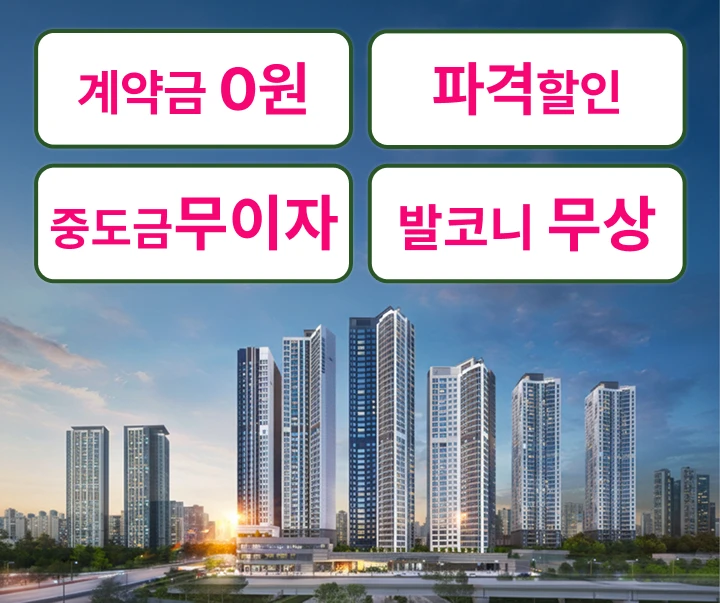
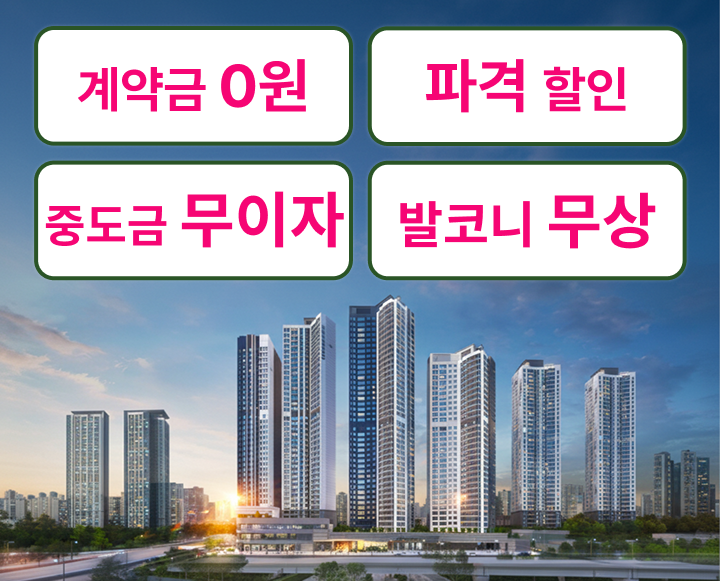
feat: 숭의역2 팝업 사은품 이미지 교체 및 헤더 로고 이미지 적용
- popup2.webp 최신 사은품 이미지로 교체, 실제 치수(720x581)로 맞춤
- 팝업 헤더의 방패 아이콘 + RAON PRIVATE 텍스트를 logo-w.webp 이미지로 교체

diff --git a/mobile-scroll/components/sungui-raon-private-2/SunguiRaonPrivate2ReservationPopup.jsx b/mobile-scroll/components/sungui-raon-private-2/SunguiRaonPrivate2ReservationPopup.jsx
@@ -26,7 +26,7 @@ function hideUntilTomorrow(id) {
 // 방문예약 사은품 증정 팝업 — 이미지 배너 + 대상 안내 + 이름/연락처 미니 폼을 한 번에 보여주고,
 // 제출 시 하단 상담신청 폼과 동일하게 /api/sms로 발송한다(솔라피 SMS/구글시트/카카오 연동 공유).
 export default function SunguiRaonPrivate2ReservationPopup({
-  id, image, title, targetText, targetHighlight,
+  id, image, logo, title, targetText, targetHighlight,
   projectName, adminPhones, sheetId, sheetTab, slug, privacyText,
 }) {
   const [open, setOpen] = useState(false);
@@ -102,12 +102,11 @@ export default function SunguiRaonPrivate2ReservationPopup({
     <div className="rsv-popup-overlay" onClick={handleClose}>
       <div className="rsv-popup-card" onClick={(e) => e.stopPropagation()}>
         <div className="rsv-popup-header">
-          <div className="rsv-popup-brand">
-            <span className="rsv-popup-shield" aria-hidden="true">
-              <svg viewBox="0 0 24 24" fill="none" stroke="currentColor" strokeWidth="1.6"><path d="M12 2l8 3v6c0 5-3.5 8.5-8 11-4.5-2.5-8-6-8-11V5l8-3z" /></svg>
-            </span>
-            <span className="rsv-popup-brand-word">RAON PRIVATE</span>
-          </div>
+          {logo && (
+            <div className="rsv-popup-brand">
+              <img src={logo.src} alt={logo.alt ?? ""} width={logo.width} height={logo.height} className="rsv-popup-logo" />
+            </div>
+          )}
           <h3 className="rsv-popup-title">{title}</h3>
         </div>
 

diff --git a/mobile-scroll/components/sungui-raon-private-2/landingCss.js b/mobile-scroll/components/sungui-raon-private-2/landingCss.js
@@ -413,11 +413,9 @@ html:has(.sr2) {
   padding: 12px 24px 10px; text-align: center; color: #fff;
 }
 .sr2 .rsv-popup-brand {
-  display: flex; align-items: center; justify-content: center; gap: 6px; margin-bottom: 4px; opacity: .85;
+  display: flex; align-items: center; justify-content: center; margin-bottom: 4px;
 }
-.sr2 .rsv-popup-shield { width: 14px; height: 14px; color: var(--btn-color); }
-.sr2 .rsv-popup-shield svg { width: 100%; height: 100%; }
-.sr2 .rsv-popup-brand-word { font-size: 10px; letter-spacing: 2px; font-weight: 600; }
+.sr2 .rsv-popup-logo { display: block; height: 16px; width: auto; }
 .sr2 .rsv-popup-title { margin: 0; font-size: 21px; font-weight: 800; letter-spacing: -0.02em; }
 /* 이미지를 자르지 않고 원본 비율 그대로 카드 폭에 맞춰 전체가 보이게 표시 */
 .sr2 .rsv-popup-image-wrap { line-height: 0; background: #0f1c2e; }

diff --git a/mobile-scroll/data/sites/sungui-raon-private-2.js b/mobile-scroll/data/sites/sungui-raon-private-2.js
@@ -59,16 +59,21 @@ const config = {
     { label: "44OA", src: "/apt/sungui-raon-private-2/3-4.webp", alt: "44OA 평면도", width: 877, height: 1536 },
   ],
 
-  // 방문예약 사은품 증정 팝업 — image는 임시 자리표시자, 실제 사은품 이미지로 교체 예정
+  // 방문예약 사은품 증정 팝업
   popup: {
     id: "sr2-popup1",
     title: "방문예약 사은품 증정",
     targetText: "방문예약 등록 후, 모델하우스 관람고객",
     targetHighlight: "(담당자 지명 필수)",
+    logo: {
+      src: "/apt/sungui-raon-private-2/logo-w.webp",
+      alt: "숭의역 라온프라이빗 스카이브",
+      width: 279, height: 69,
+    },
     image: {
       src: "/apt/sungui-raon-private-2/popup2.webp",
       alt: "방문예약 사은품 이미지",
-      width: 971, height: 822,
+      width: 720, height: 581,
     },
   },
 

diff --git a/mobile-scroll/components/sungui-raon-private-2/SunguiRaonPrivate2Landing.jsx b/mobile-scroll/components/sungui-raon-private-2/SunguiRaonPrivate2Landing.jsx
@@ -38,6 +38,7 @@ export default function SunguiRaonPrivate2Landing({ site }) {
         <SunguiRaonPrivate2ReservationPopup
           id={site.popup.id}
           image={site.popup.image}
+          logo={site.popup.logo}
           title={site.popup.title}
           targetText={site.popup.targetText}
           targetHighlight={site.popup.targetHighlight}
